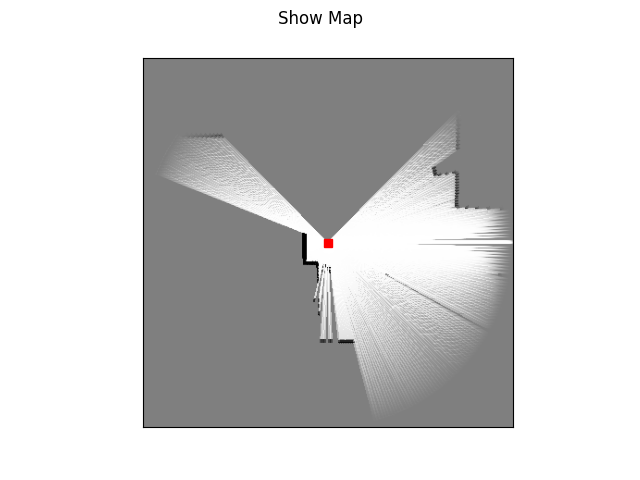
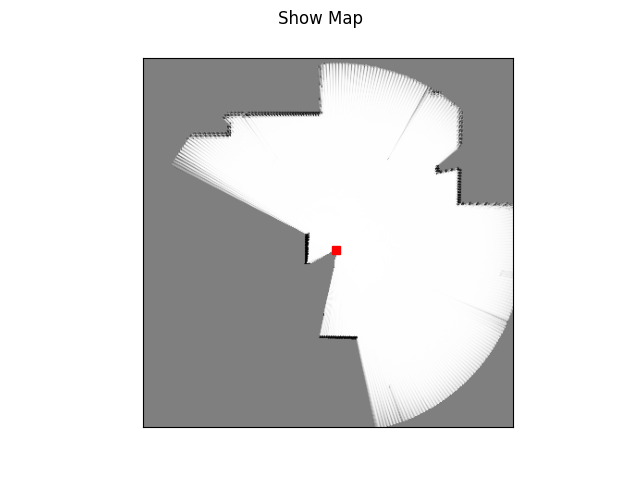
Rewrote LaserSensorModel with numpy, now runs at 10 fps instead of 3 secs per frame. TODO: cleanup and document

Changed region(s): [[0.25, 0.125, 0.8125, 0.9062]]

diff --git a/assignments/MapMaker/Python/LaserSensorModel.py b/assignments/MapMaker/Python/LaserSensorModel.py
@@ -11,10 +11,10 @@ class LaserSensorModel:
     BEAM_MAX_DISTANCE = 40
 
     # 'depth' of an obstacle.
-    OBSTACLE_DEPTH_WCS = .8
+    OBSTACLE_DEPTH_WCS = .5
 
-    # half of the 'width' of the laser beam in radians.
-    BEAM_WIDTH_RAD = (0.5 * np.pi) / 180
+    # the 'width' of the laser beam in radians.
+    BEAM_WIDTH_RAD = np.pi / 180
 
     # The maximum probability to assign to obstacles.
     # This prevents grid value from becoming 1 and never changing afterwards
@@ -26,6 +26,7 @@ class LaserSensorModel:
         self.__grid = occupancy_grid
 
         self.__beam_max_grid_distance = (self.BEAM_MAX_DISTANCE / occupancy_grid.cell_size)
+        self.__obstacle_depth_grid = self.OBSTACLE_DEPTH_WCS / occupancy_grid.cell_size
 
     def update_grid(self):
         
@@ -38,178 +39,56 @@ class LaserSensorModel:
         # Calculate the robot's position on the grid.
         robot_x_grid, robot_y_grid = self.__grid.pos_to_grid(position_wcs['X'], position_wcs['Y'])
         
-        # Get the distances of all laser beams in meters (?)
+        # Get the distances of all laser beams in meters
         beam_distances_wcs = np.array(self.__robot.getLaser()['Echoes'])
 
-        # get the angle of each laser beam
-        laser_angles = np.array(self.__robot.getLaserAngles())
-        beam_angle_rads = laser_angles + heading
-        
-        # The x,y location an obstacle was detected at.
-        obstacle_x_start_wcs = beam_distances_wcs * np.cos(beam_angle_rads)
-        obstacle_y_start_wcs = beam_distances_wcs * np.sin(beam_angle_rads)
-        
-        # Corner 1 of the triangle to update
-        obstacle_x_end_left_wcs = np.minimum((beam_distances_wcs + self.OBSTACLE_DEPTH_WCS), self.BEAM_MAX_DISTANCE) * np.cos(beam_angle_rads - self.BEAM_WIDTH_RAD)
-        obstacle_y_end_left_wcs = np.minimum((beam_distances_wcs + self.OBSTACLE_DEPTH_WCS), self.BEAM_MAX_DISTANCE) * np.sin(beam_angle_rads - self.BEAM_WIDTH_RAD)
-        
-        # Corner 2 of the triangle to update
-        obstacle_x_end_right_wcs = np.minimum((beam_distances_wcs + self.OBSTACLE_DEPTH_WCS), self.BEAM_MAX_DISTANCE) * np.cos(beam_angle_rads + self.BEAM_WIDTH_RAD)
-        obstacle_y_end_right_wcs = np.minimum((beam_distances_wcs + self.OBSTACLE_DEPTH_WCS), self.BEAM_MAX_DISTANCE) * np.sin(beam_angle_rads + self.BEAM_WIDTH_RAD)
+        rows, cols = self.__grid.get_size()
 
-        # Convert coordinates to grid
-        obstacle_x_start_grid, obstacle_y_start_grid = self.__grid.pos_to_grid_np(obstacle_x_start_wcs, obstacle_y_start_wcs)
-        obstacle_x_end_left_grids, obstacle_y_end_left_grids = self.__grid.pos_to_grid_np(obstacle_x_end_left_wcs, obstacle_y_end_left_wcs)
-        obstacle_x_end_right_grids, obstacle_y_end_right_grids = self.__grid.pos_to_grid_np(obstacle_x_end_right_wcs, obstacle_y_end_right_wcs)
+        result = np.ones(shape=(rows, cols)) * 0.5
 
-        # Distance to obstacle
-        obstacle_distance_grids = np.sqrt((obstacle_x_start_grid - robot_x_grid) ** 2 + (obstacle_y_start_grid - robot_y_grid) ** 2)
-        
-        # Decrease obstacle probability between the robot and the obstacle
-        #for x, y in self.__triangle(
+        ys, xs = np.ogrid[0:rows, 0:cols]
+
+        distances = self.distance_2d(robot_x_grid, robot_y_grid, xs, ys)
+        angles = self.norm_angle(self.angle_2d(robot_x_grid, robot_y_grid, xs, ys) - heading)
+        beams = np.round(angles / self.BEAM_WIDTH_RAD)
+
+        beam_angles = self.norm_angle(angles - (beams * self.BEAM_WIDTH_RAD))
+
+        beam_indices = beams.astype(np.int)
+        beam_indices[abs(beam_indices) > 135] = -135
+        beam_indices += 135
+
+        laser_distances = beam_distances_wcs[beam_indices] / self.__grid.cell_size
+
+        angle_mask = np.less(np.abs(beams), 135)
+        region_I_mask = angle_mask & np.less(laser_distances, self.__beam_max_grid_distance) & np.less(np.abs(laser_distances - distances), self.__obstacle_depth_grid)
+        region_II_mask = angle_mask & np.less(distances, laser_distances)
+        region_III_mask = ~(region_II_mask | region_I_mask)
+
+        distance_term = self.distance_term(distances, np.amax(distances))
+        angle_term = self.angle_term(beam_angles, np.amax(beam_angles) * 2)
+
+        np.putmask(result, region_I_mask, (distance_term + angle_term) / 2 * self.PROB_MAX)
+        np.putmask(result, region_II_mask, 1 - (distance_term + angle_term) / 2)
+
+        #self.__grid.set_grid(region_III_mask)
+        self.__grid.update_grid(result, region_III_mask)
 
 
-        """print("robot_x_grid",int(robot_x_grid))
-                                print("robot_y_grid",int(robot_y_grid))
-                                print("obstacle_x_end_left_grids",obstacle_x_end_left_grids.shape,obstacle_x_end_left_grids.astype(int))
-                                print("obstacle_y_end_left_grids",obstacle_y_end_left_grids.shape, obstacle_y_end_left_grids.astype(int))
-                                print("obstacle_x_end_right_grids",obstacle_x_end_right_grids.shape,obstacle_x_end_right_grids.astype(int))
-                                print("obstacle_y_end_right_grids",obstacle_y_end_right_grids.shape,obstacle_y_end_right_grids.astype(int))"""
+    def norm_angle(self, angle):
+        return (angle + np.pi) % (2 * np.pi) - np.pi
 
-        #for x, y in vtri(int(robot_x_grid), int(robot_y_grid),obstacle_x_end_left_grids.astype(int), obstacle_y_end_left_grids.astype(int),obstacle_x_end_right_grids.astype(int), obstacle_y_end_right_grids.astype(int)):            # distance from robot to point on grid
-        # Decrease obstacle probability between the robot and the obstacle
-        
-        robot_x_grid_int = int(robot_x_grid)
-        robot_y_grid_int = int(robot_y_grid)
+    def distance_term(self, distance_grid, max_value):
+        return (max_value - distance_grid) / max_value
 
-        for obstacle_x_end_left_grid, obstacle_y_end_left_grid, obstacle_x_end_right_grid, obstacle_y_end_right_grid, obstacle_distance_grid, beam_angle_rad in zip(obstacle_x_end_left_grids.astype(int), obstacle_y_end_left_grids.astype(int), obstacle_x_end_right_grids.astype(int), obstacle_y_end_right_grids.astype(int), obstacle_distance_grids, beam_angle_rads):
-            for x, y in self.__triangle(
-                    robot_x_grid_int, robot_y_grid_int,
-                    obstacle_x_end_left_grid, obstacle_y_end_left_grid,
-                    obstacle_x_end_right_grid, obstacle_y_end_right_grid
-            ):
-                # distance from robot to point on grid
-                # r from lecture 7, slide 13
-                distance = np.sqrt((x - robot_x_grid) ** 2 + (y - robot_y_grid) ** 2)
+    def angle_term(self, angle_grid, max_value):
+        return (max_value - np.abs(angle_grid)) / max_value
 
-                # (R - r)/R from lecture 7, slide 13
-                distance_term = (max(self.__beam_max_grid_distance - distance, 0) / self.__beam_max_grid_distance)
+    def distance_2d(self, x_point, y_point, x, y):
+        return np.hypot(x - x_point, y - y_point)
 
-                # Angle between the laser beam an the current grid coordinate.
-                # This does not seem to work.
-                # alpha from lecture 7, slide 13
-                angle = abs(np.arctan2(y - robot_y_grid, x - robot_x_grid))#-beam_angle_rad)
+    def angle_2d(self, x_point, y_point, x, y):
+        return np.arctan2(y - y_point, x - x_point)
 
-                # (beta - alpha)/beta from lecture 7, slide 13
-                angle_term = ((self.BEAM_WIDTH_RAD - angle) / self.BEAM_WIDTH_RAD)
-                #angle_term = 1
-
-                if distance < obstacle_distance_grid:
-                    # Region II: grid probably empty
-                    prob_empty = (distance_term + angle_term) / 2
-                    prob_occupied = 1 - prob_empty
-                else:
-                    # Region I: Grid probably occupied
-                    prob_occupied = ((distance_term + angle_term) / 2) * self.PROB_MAX
-
-                self.__grid.update_cell(x, y, prob_occupied)
-
-    def __triangle(self, x1: int, y1: int, x2: int, y2: int, x3: int, y3: int):
-        """
-        Returns all grid points in the triangle defined by the points (x1, y1), (x2, y2), (x3, y3)
-
-        http://www.sunshine2k.de/coding/java/TriangleRasterization/TriangleRasterization.html
-        http://www.sunshine2k.de/Files/TriangleRasterization.zip
-        """
-        # Sort points by ascending y. Assures that y1 <= y2 <= y3.
-        points = [(x1, y1), (x2, y2), (x3, y3)]
-        points.sort(key=lambda tup: tup[1])
-
-        x1 = points[0][0]
-        y1 = points[0][1]
-        x2 = points[1][0]
-        y2 = points[1][1]
-        x3 = points[2][0]
-        y3 = points[2][1]
-
-        if y2 == y3:
-            # flat bottom triangle
-            yield from self.__triangle_flat(x1, y1, x2, y2, x3, y3)
-        elif y1 == y2:
-            # flat top triangle
-            yield from self.__triangle_flat(x3, y3, x1, y1, x2, y2)
-        else:
-            # split triangle into flat-bottom and flat-top triangle.
-            x_tmp = int(x1 + (float(y2 - y1) / float(y3 - y1)) * (x3 - x1))
-            y_tmp = y2
-
-            yield from self.__triangle_flat(x1, y1, x2, y2, x_tmp, y_tmp)
-            yield from self.__triangle_flat(x3, y3, x2, y2, x_tmp, y_tmp)
-
-    def __triangle_flat(self, x1: int, y1: int, x2: int, y2: int, x3: int, y3: int):
-        changed1 = False
-        changed2 = False
-
-        dx1 = abs(x2 - x1)
-        dy1 = abs(y2 - y1)
-        dx2 = abs(x3 - x1)
-        dy2 = abs(y3 - y1)
-
-        sign_x1 = np.sign(x2 - x1)
-        sign_x2 = np.sign(x3 - x1)
-
-        sign_y1 = np.sign(y2 - y1)
-        sign_y2 = np.sign(y3 - y1)
-
-        if dy1 > dx1:
-            tmp = dx1
-            dx1 = dy1
-            dy1 = tmp
-            changed1 = True
-
-        if dy2 > dx2:
-            tmp = dx2
-            dx2 = dy2
-            dy2 = tmp
-            changed2 = True
-
-        e1 = (2 * dy1) - dx1
-        e2 = (2 * dy2) - dx2
-
-        curr_x1 = x1
-        curr_y1 = y1
-        curr_x2 = x1
-        curr_y2 = y1
-
-        for i in range(0, dx1 + 1):
-            for x in range(min(curr_x1, curr_x2), max(curr_x1, curr_x2) + 1):
-                yield x, curr_y2
-
-            while e1 >= 0:
-                if changed1:
-                    curr_x1 += sign_x1
-                else:
-                    curr_y1 += sign_y1
-                e1 -= (2 * dx1)
-
-            if changed1:
-                curr_y1 += sign_y1
-            else:
-                curr_x1 += sign_x1
-
-            e1 += (2 * dy1)
-
-            while curr_y2 != curr_y1:
-                while e2 >= 0:
-                    if changed2:
-                        curr_x2 += sign_x2
-                    else:
-                        curr_y2 += sign_y2
-                    e2 -= (2 * dx2)
-
-                if changed2:
-                    curr_y2 += sign_y2
-                else:
-                    curr_x2 += sign_x2
-
-                e2 += (2 * dy2)
+    def pol2cart(self, rs, thetas):
+        return rs * np.cos(thetas), rs * np.sin(thetas)

diff --git a/assignments/MapMaker/Python/OccupancyGrid.py b/assignments/MapMaker/Python/OccupancyGrid.py
@@ -16,8 +16,20 @@ class OccupancyGrid:
     def get_grid(self):
         return self.__grid
 
+    def set_grid(self, grid):
+        self.__grid = grid
+
     def get_size(self):
-        return {'rows': self.row_count, 'cols': self.col_count}
+        return self.row_count, self.col_count
+
+    def update_grid(self, p_occupied_grid, region_III_mask):
+        prior_occupied = self.__grid
+        prior_empty = 1 - self.__grid
+        p_empty = 1 - p_occupied_grid
+
+        occupied_term = p_occupied_grid * prior_occupied
+
+        np.putmask(self.__grid, ~region_III_mask, occupied_term / (occupied_term + p_empty * prior_empty))
 
     def update_cell(self, x_grid, y_grid, p_occupied):
         """
@@ -44,7 +56,7 @@ class OccupancyGrid:
         row = ((y_wcs - self.y_anchor) / self.cell_size)
         return row, col
 
-    def pos_to_grid_np(self, x_wcs, y_wcs):
+    def pos_to_grid_int(self, x_wcs, y_wcs):
         """
         Converts an (x,y) position in the world to a (row,col) coordinate in the grid
         :param x_wcs: x-position in the world
@@ -53,4 +65,4 @@ class OccupancyGrid:
         """
         col = ((x_wcs - self.x_anchor) / self.cell_size)
         row = ((y_wcs - self.y_anchor) / self.cell_size)
-        return row, col
+        return int(row), int(col)

diff --git a/assignments/MapMaker/Python/RobotController.py b/assignments/MapMaker/Python/RobotController.py
@@ -21,7 +21,7 @@ class RobotController:
     def main(self):
 
         # Start the robot moving to a random location
-        #self.take_step()
+        self.take_step()
 
         # Arbitrary amt of time
         stop_time = time.time() + 3
@@ -36,7 +36,7 @@ class RobotController:
             # again here, have to call drive on the robot directly
             # because we can't use multiple sleep() functions
             # it breaks control flow
-            #self.__robot_drive.take_step()
+            self.__robot_drive.take_step()
             time.sleep(0.1)
 
         self.save_map()
@@ -66,7 +66,7 @@ class RobotController:
 
     def take_step(self):
         robot_position_vector = npf.conv_pos_to_np(self.__robot.getPosition())
-        self.__robot_drive.set_WCS_coordinates(robot_position_vector[0]-1, robot_position_vector[1]+1)
+        self.__robot_drive.set_WCS_coordinates(robot_position_vector[0]-10, robot_position_vector[1]+1)
         self.__robot_drive.start_robot()
 
 if __name__ == "__main__":
